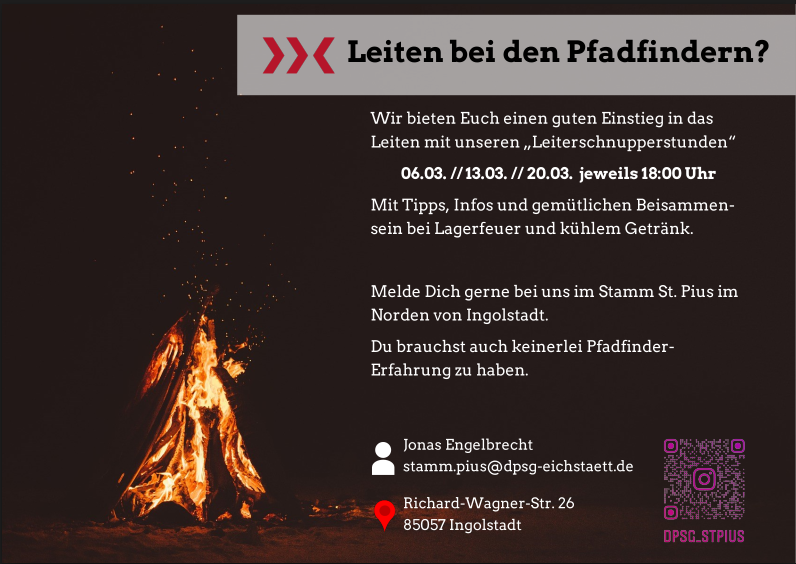
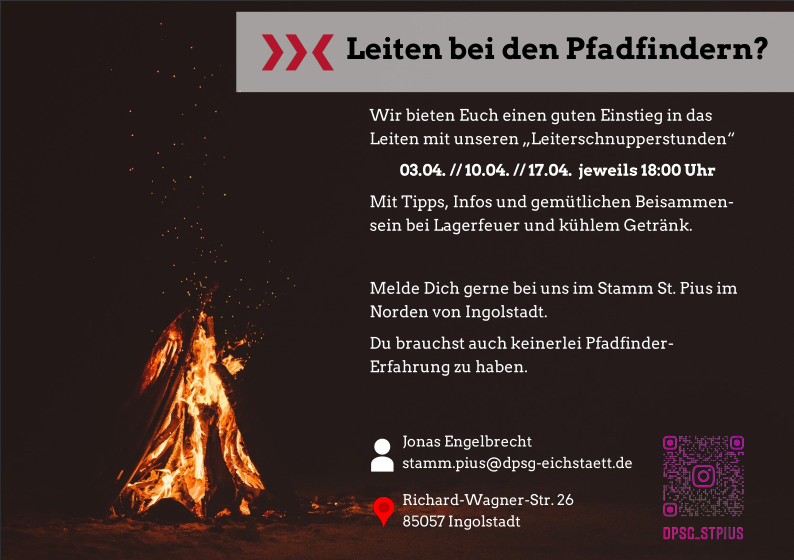
uploading material

diff --git a/index.html b/index.html
@@ -3,7 +3,7 @@
 "http://www.w3.org/TR/xhtml1/DTD/xhtml1-strict.dtd">
 <html xmlns="http://www.w3.org/1999/xhtml" lang="en" xml:lang="en">
 <head>
-<!-- 2024-02-18 So 10:32 -->
+<!-- 2024-03-11 Mo 10:35 -->
 <meta http-equiv="Content-Type" content="text/html;charset=utf-8" />
 <meta name="viewport" content="width=device-width, initial-scale=1" />
 <title>DPSG Stamm St. Pius Ingolstadt</title>
@@ -201,13 +201,13 @@
 <div id="content" class="content">
 <h1 class="title">DPSG Stamm St. Pius Ingolstadt</h1>
 
-<div id="orgf09b702" class="figure">
+<div id="orgb9df4c3" class="figure">
 <p><img src="Stammeslogo2.png" alt="Stammeslogo2.png" />
 </p>
 </div>
-<div id="outline-container-orgee73156" class="outline-2">
-<h2 id="orgee73156">Über uns</h2>
-<div class="outline-text-2" id="text-orgee73156">
+<div id="outline-container-orgd18940e" class="outline-2">
+<h2 id="orgd18940e">Über uns</h2>
+<div class="outline-text-2" id="text-orgd18940e">
 <p>
 Der DPSG Stamm St. Pius in Ingolstadt wurde im Jahr 1962 gegründet und gehört zur katholischen Kirchengemeinde St. Pius im  Norden der Stadt.
 Dort befindet sich auch unser Gruppenraum, wo wir uns wöchentlich zur Gruppenstunde treffen.
@@ -224,28 +224,40 @@ Weitere Informationen gibt es auf Instagram:
 </p>
 </div>
 </div>
-<div id="outline-container-org3b1f11a" class="outline-2">
-<h2 id="org3b1f11a">Du hast Lust das mal näher kennenzulernen?</h2>
-<div class="outline-text-2" id="text-org3b1f11a">
-
-<div id="orgcbc4fa3" class="figure">
-<p><img src="Plakat.png" alt="Plakat.png" />
+<div id="outline-container-orge8313da" class="outline-2">
+<h2 id="orge8313da">Leiten bei den Pfadfindern?</h2>
+<div class="outline-text-2" id="text-orge8313da">
+<p>
+<img src="Plakat.png" alt="Plakat.png" />
+<img src="Plakat2.png" alt="Plakat2.png" />
+<img src="Plakat3.png" alt="Plakat3.png" />
 </p>
 </div>
 </div>
+<div id="outline-container-orgcd996ee" class="outline-2">
+<h2 id="orgcd996ee">Du hast Lust das mal näher kennenzulernen?</h2>
+<div class="outline-text-2" id="text-orgcd996ee">
+<p>
+Die DPSG-Pfadfinderschaft St.Pius lädt Dich ein, die Rolle des Pfadfinderleiters vertieft kennenzulernen. Einen Monat lang werden wir uns wöchentlich damit beschäftigen, wie ein Pfadfinderleiter jungen Menschen im Zugang zur eigenen Persönlichkeit und die Entwicklung zu der Person, die in Ihnen angelegt ist, unterstützt. Dabei lernst Du neben Persönlichkeits- und Gruppentheorien auch praktische Elemente kennen, um den Weg des Grüpplings zu begleiten. Natürlich sollst Du nach unserer Schnupperleiterrunde nicht die Verantwortung eines Pfadfinderleiters voll übernehmen können - dazu gibt es weiterführende Qualifikationen. Hier geht es - wie der Name schon sagt - um ein Schnuppern!
+</p>
+
+<p>
+Wir freuen uns auf DICH!
+</p>
 </div>
-<div id="outline-container-org20be8fb" class="outline-2">
-<h2 id="org20be8fb">Gruppenstunden</h2>
-<div class="outline-text-2" id="text-org20be8fb">
+</div>
+<div id="outline-container-org51a47c7" class="outline-2">
+<h2 id="org51a47c7">Gruppenstunden</h2>
+<div class="outline-text-2" id="text-org51a47c7">
 <ul class="org-ul">
 <li>Wölflinge (ab 6 Jahren): Dienstag  17:30 - 19:00 Uhr</li>
 <li>Rover (ab 15 Jahren): Donnerstag  20:30 - 22:00 Uhr</li>
 </ul>
 </div>
 </div>
-<div id="outline-container-orgf66eea8" class="outline-2">
-<h2 id="orgf66eea8">Anmeldung</h2>
-<div class="outline-text-2" id="text-orgf66eea8">
+<div id="outline-container-org0478cfe" class="outline-2">
+<h2 id="org0478cfe">Anmeldung</h2>
+<div class="outline-text-2" id="text-org0478cfe">
 <p>
 Hier könnt Ihr euch die Anmeldung herunterladen. Bitte schickt die augefüllte Version an die E-Mail-Adresse.
 </p>
@@ -255,22 +267,22 @@ Hier könnt Ihr euch die Anmeldung herunterladen. Bitte schickt die augefüllte 
 </p>
 </div>
 </div>
-<div id="outline-container-org2a6c958" class="outline-2">
-<h2 id="org2a6c958"><a href="Datenschutzerklärung.html">Datenschutzerklärung</a></h2>
+<div id="outline-container-orged753f5" class="outline-2">
+<h2 id="orged753f5"><a href="Datenschutzerklärung.html">Datenschutzerklärung</a></h2>
 </div>
 
 
-<div id="outline-container-org9834038" class="outline-2">
-<h2 id="org9834038">Kontakt</h2>
-<div class="outline-text-2" id="text-org9834038">
+<div id="outline-container-org023507e" class="outline-2">
+<h2 id="org023507e">Kontakt</h2>
+<div class="outline-text-2" id="text-org023507e">
 <p>
 stamm.pius@dpsg-eichstaett.de
 </p>
 </div>
 </div>
-<div id="outline-container-orgad2c959" class="outline-2">
-<h2 id="orgad2c959">Impressum</h2>
-<div class="outline-text-2" id="text-orgad2c959">
+<div id="outline-container-org52ffb67" class="outline-2">
+<h2 id="org52ffb67">Impressum</h2>
+<div class="outline-text-2" id="text-org52ffb67">
 <p>
 Angaben gemäß § 5 TMG
 </p>
@@ -299,7 +311,7 @@ Adresse des Stammesvorstands
 </div>
 <div id="postamble" class="status">
 <p class="author">Author: DPSG Stamm St. Pius Ingolstadt</p>
-<p class="date">Created: 2024-02-18 So 10:32</p>
+<p class="date">Created: 2024-03-11 Mo 10:35</p>
 </div>
 </body>
 </html>
